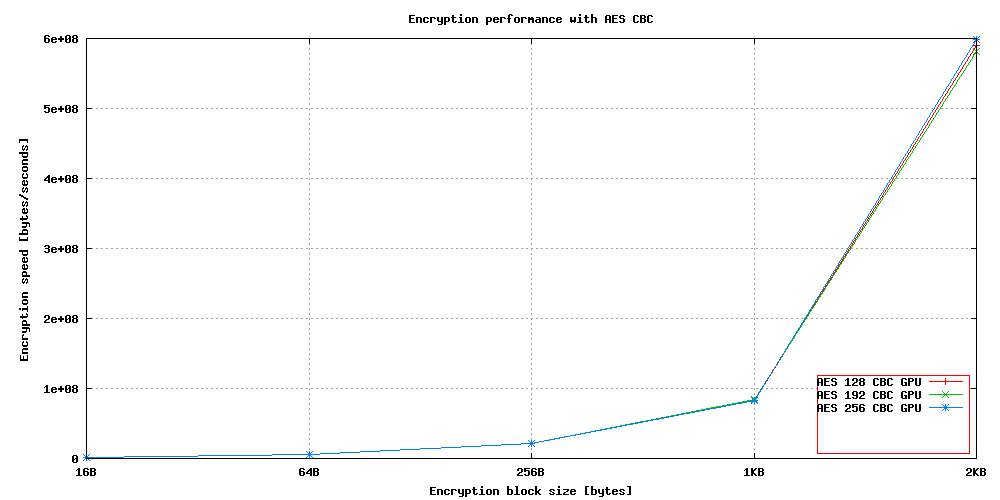
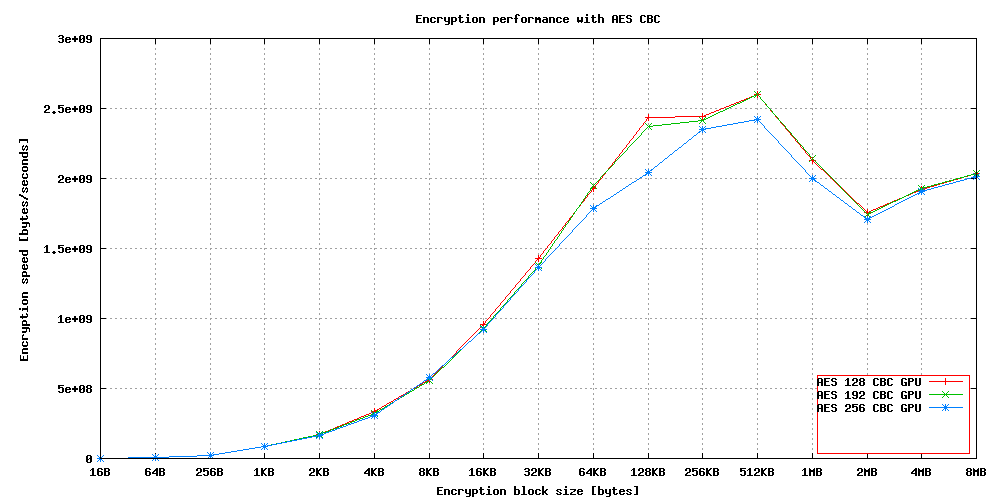
test2

diff --git a/test-speed/table.html b/test-speed/table.html
@@ -2,82 +2,82 @@
 <h1>AES ECB encryption performance</h1>
 <img src="./aes-ecb-encrypt.png" alt="aes-ecb-encrypt"/>
 <table><tr><th>blocksize</th><th>aes-128-ecb-gpu</th><th>aes-128-ecb-cpu</th><th>aes-192-ecb-gpu</th><th>aes-192-ecb-cpu</th><th>aes-256-ecb-gpu</th><th>aes-256-ecb-cpu</th></tr>
-<tr><th>16</th><td>570827.07</td><td>588660.08</td><td>593474.51</td><td></td><td>561222.81</td><td></td></tr>
-<tr><th>64</th><td>2259911.11</td><td>2299122.68</td><td>2353755.64</td><td></td><td>2227658.87</td><td></td></tr>
-<tr><th>256</th><td>8977381.55</td><td>9357187.88</td><td>9256901.15</td><td></td><td>8873768.42</td><td></td></tr>
-<tr><th>1024</th><td>37716669.26</td><td>36596770.26</td><td>36440048.48</td><td></td><td>36524127.63</td><td></td></tr>
-<tr><th>2048</th><td></td><td></td><td></td><td></td><td></td><td></td></tr>
-<tr><th>4096</th><td></td><td></td><td></td><td></td><td></td><td></td></tr>
-<tr><th>8192</th><td>274117158.21</td><td>292256000.00</td><td>289096006.37</td><td></td><td>266356590.26</td><td></td></tr>
-<tr><th>16384</th><td></td><td></td><td></td><td></td><td></td><td></td></tr>
-<tr><th>32768</th><td></td><td></td><td></td><td></td><td></td><td></td></tr>
-<tr><th>65536</th><td></td><td></td><td></td><td></td><td></td><td></td></tr>
-<tr><th>131072</th><td></td><td></td><td></td><td></td><td></td><td></td></tr>
-<tr><th>262144</th><td></td><td></td><td></td><td></td><td></td><td></td></tr>
-<tr><th>524288</th><td></td><td></td><td></td><td></td><td></td><td></td></tr>
-<tr><th>1048576</th><td></td><td></td><td></td><td></td><td></td><td></td></tr>
-<tr><th>2097152</th><td></td><td></td><td></td><td></td><td></td><td></td></tr>
-<tr><th>4194304</th><td></td><td></td><td></td><td></td><td></td><td></td></tr>
-<tr><th>8388608</th><td></td><td></td><td></td><td></td><td></td><td></td></tr>
+<tr><th>16</th><td>591412.73</td><td></td><td>554810.49</td><td></td><td>564468.97</td><td></td></tr>
+<tr><th>64</th><td>2349299.63</td><td></td><td>2215454.68</td><td></td><td>2214424.06</td><td></td></tr>
+<tr><th>256</th><td>9413253.73</td><td></td><td>8899175.94</td><td></td><td>8921018.18</td><td></td></tr>
+<tr><th>1024</th><td>37853222.64</td><td></td><td>35347943.07</td><td></td><td>36514564.98</td><td></td></tr>
+<tr><th>2048</th><td>73638591.04</td><td></td><td>70459733.33</td><td></td><td>71675237.21</td><td></td></tr>
+<tr><th>4096</th><td>144101831.11</td><td></td><td>136672934.83</td><td></td><td>144959235.06</td><td></td></tr>
+<tr><th>8192</th><td>280191130.57</td><td></td><td>261470976.95</td><td></td><td>283113521.95</td><td></td></tr>
+<tr><th>16384</th><td>512825625.10</td><td></td><td>485064950.38</td><td></td><td>499146591.37</td><td></td></tr>
+<tr><th>32768</th><td>825036413.58</td><td></td><td>806214614.13</td><td></td><td>856450662.40</td><td></td></tr>
+<tr><th>65536</th><td>1239524072.73</td><td></td><td>1235553709.92</td><td></td><td>1239265438.76</td><td></td></tr>
+<tr><th>131072</th><td>1615437386.26</td><td></td><td>1624733965.89</td><td></td><td>1729986560.00</td><td></td></tr>
+<tr><th>262144</th><td>1877354338.46</td><td></td><td>1888864821.79</td><td></td><td>1937636845.34</td><td></td></tr>
+<tr><th>524288</th><td>2084767244.09</td><td></td><td>2035135053.70</td><td></td><td>2196208966.81</td><td></td></tr>
+<tr><th>1048576</th><td>1802744123.08</td><td></td><td>1781772603.08</td><td></td><td>1889162851.03</td><td></td></tr>
+<tr><th>2097152</th><td>1562716490.32</td><td></td><td>1573629383.94</td><td></td><td>1569779952.94</td><td></td></tr>
+<tr><th>4194304</th><td>1738060710.18</td><td></td><td>1719073892.96</td><td></td><td>1739580040.29</td><td></td></tr>
+<tr><th>8388608</th><td>1837366388.93</td><td></td><td>1823864596.52</td><td></td><td>1809710187.41</td><td></td></tr>
 </table>
 <p>The "numbers" in the column "blocksize" are in bytes.</p>
 <p>All other "numbers" are in bytes per second processed.</p>
 <h1>AES ECB decryption performance</h1>
 <img src="./aes-ecb-decrypt.png" alt="aes-ecb-decrypt"/>
 <table><tr><th>blocksize</th><th>aes-128-ecb-gpu</th><th>aes-128-ecb-cpu</th><th>aes-192-ecb-gpu</th><th>aes-192-ecb-cpu</th><th>aes-256-ecb-gpu</th><th>aes-256-ecb-cpu</th></tr>
-<tr><th>16</th><td>608606.90</td><td></td><td>566947.21</td><td></td><td>539387.17</td><td></td></tr>
-<tr><th>64</th><td>2390303.76</td><td></td><td>2289972.93</td><td></td><td>2156220.38</td><td></td></tr>
-<tr><th>256</th><td>9516584.27</td><td></td><td>9039464.68</td><td></td><td>8642812.12</td><td></td></tr>
-<tr><th>1024</th><td>37330109.63</td><td></td><td>37877600.00</td><td></td><td>35006962.16</td><td></td></tr>
-<tr><th>2048</th><td></td><td></td><td></td><td></td><td></td><td></td></tr>
-<tr><th>4096</th><td></td><td></td><td></td><td></td><td></td><td></td></tr>
-<tr><th>8192</th><td>286874566.04</td><td></td><td>275119268.91</td><td></td><td>257250197.01</td><td></td></tr>
-<tr><th>16384</th><td></td><td></td><td></td><td></td><td></td><td></td></tr>
-<tr><th>32768</th><td></td><td></td><td></td><td></td><td></td><td></td></tr>
-<tr><th>65536</th><td></td><td></td><td></td><td></td><td></td><td></td></tr>
-<tr><th>131072</th><td></td><td></td><td></td><td></td><td></td><td></td></tr>
-<tr><th>262144</th><td></td><td></td><td></td><td></td><td></td><td></td></tr>
-<tr><th>524288</th><td></td><td></td><td></td><td></td><td></td><td></td></tr>
-<tr><th>1048576</th><td></td><td></td><td></td><td></td><td></td><td></td></tr>
-<tr><th>2097152</th><td></td><td></td><td></td><td></td><td></td><td></td></tr>
-<tr><th>4194304</th><td></td><td></td><td></td><td></td><td></td><td></td></tr>
-<tr><th>8388608</th><td></td><td></td><td></td><td></td><td></td><td></td></tr>
+<tr><th>16</th><td>584865.19</td><td></td><td>586409.13</td><td></td><td></td><td></td></tr>
+<tr><th>64</th><td>2318070.59</td><td></td><td>2331903.03</td><td></td><td></td><td></td></tr>
+<tr><th>256</th><td>9391283.58</td><td></td><td>9163940.30</td><td></td><td></td><td></td></tr>
+<tr><th>1024</th><td>39141600.00</td><td></td><td>36445611.94</td><td></td><td></td><td></td></tr>
+<tr><th>2048</th><td>74112287.64</td><td></td><td>74533021.54</td><td></td><td></td><td></td></tr>
+<tr><th>4096</th><td>144053285.93</td><td></td><td>141752167.16</td><td></td><td></td><td></td></tr>
+<tr><th>8192</th><td>280438436.23</td><td></td><td>270960297.40</td><td></td><td></td><td></td></tr>
+<tr><th>16384</th><td>501753886.57</td><td></td><td>491281576.12</td><td></td><td></td><td></td></tr>
+<tr><th>32768</th><td>847281557.74</td><td></td><td>885775627.31</td><td></td><td></td><td></td></tr>
+<tr><th>65536</th><td>1260982412.17</td><td></td><td>1248322697.32</td><td></td><td></td><td></td></tr>
+<tr><th>131072</th><td>1661464607.75</td><td></td><td>1617630129.23</td><td></td><td></td><td></td></tr>
+<tr><th>262144</th><td>1915283224.90</td><td></td><td>1874532812.40</td><td></td><td></td><td></td></tr>
+<tr><th>524288</th><td>2080358400.00</td><td></td><td>2062681096.06</td><td></td><td></td><td></td></tr>
+<tr><th>1048576</th><td>1925527928.16</td><td></td><td>1757556363.64</td><td></td><td></td><td></td></tr>
+<tr><th>2097152</th><td>1568729829.39</td><td></td><td>1542155702.86</td><td></td><td></td><td></td></tr>
+<tr><th>4194304</th><td>1743947452.63</td><td></td><td>1720550760.56</td><td></td><td></td><td></td></tr>
+<tr><th>8388608</th><td>1858938915.68</td><td></td><td>1823864596.52</td><td></td><td></td><td></td></tr>
 </table>
 <p>The "numbers" in the column "blocksize" are in bytes.</p>
 <p>All other "numbers" are in bytes per second processed.</p>
 <h1>AES CBC encryption performance</h1>
 <img src="./aes-cbc-encrypt.png" alt="aes-cbc-encrypt"/>
 <table><tr><th>blocksize</th><th>aes-128-cbc-gpu</th><th>aes-128-cbc-cpu</th><th>aes-192-cbc-gpu</th><th>aes-192-cbc-cpu</th><th>aes-256-cbc-gpu</th><th>aes-256-cbc-cpu</th></tr>
-<tr><th>16</th><td>1386514.29</td><td></td><td>1327657.54</td><td></td><td>1356341.22</td><td></td></tr>
-<tr><th>64</th><td>5443936.69</td><td></td><td>5340436.88</td><td></td><td>5342462.19</td><td></td></tr>
-<tr><th>256</th><td>21128653.52</td><td></td><td>21219748.57</td><td></td><td>21648942.55</td><td></td></tr>
-<tr><th>1024</th><td>82294264.79</td><td></td><td>83622765.71</td><td></td><td>83231157.30</td><td></td></tr>
-<tr><th>2048</th><td></td><td></td><td></td><td></td><td></td><td></td></tr>
-<tr><th>4096</th><td></td><td></td><td></td><td></td><td></td><td></td></tr>
-<tr><th>8192</th><td>589509870.68</td><td></td><td>581713920.00</td><td></td><td>598087641.06</td><td></td></tr>
-<tr><th>16384</th><td></td><td></td><td></td><td></td><td></td><td></td></tr>
-<tr><th>32768</th><td></td><td></td><td></td><td></td><td></td><td></td></tr>
-<tr><th>65536</th><td></td><td></td><td></td><td></td><td></td><td></td></tr>
-<tr><th>131072</th><td></td><td></td><td></td><td></td><td></td><td></td></tr>
-<tr><th>262144</th><td></td><td></td><td></td><td></td><td></td><td></td></tr>
-<tr><th>524288</th><td></td><td></td><td></td><td></td><td></td><td></td></tr>
-<tr><th>1048576</th><td></td><td></td><td></td><td></td><td></td><td></td></tr>
-<tr><th>2097152</th><td></td><td></td><td></td><td></td><td></td><td></td></tr>
-<tr><th>4194304</th><td></td><td></td><td></td><td></td><td></td><td></td></tr>
-<tr><th>8388608</th><td></td><td></td><td></td><td></td><td></td><td></td></tr>
+<tr><th>16</th><td>1373400.72</td><td></td><td>1338722.30</td><td></td><td>1371865.23</td><td></td></tr>
+<tr><th>64</th><td>5623958.36</td><td></td><td>5344460.43</td><td></td><td>5547501.45</td><td></td></tr>
+<tr><th>256</th><td>22809600.00</td><td></td><td>20830557.75</td><td></td><td>21532766.08</td><td></td></tr>
+<tr><th>1024</th><td>86233553.11</td><td></td><td>84985552.59</td><td></td><td>85246715.41</td><td></td></tr>
+<tr><th>2048</th><td>168117198.51</td><td></td><td>168717331.32</td><td></td><td>163524811.35</td><td></td></tr>
+<tr><th>4096</th><td>335280709.73</td><td></td><td>321662150.57</td><td></td><td>307901130.25</td><td></td></tr>
+<tr><th>8192</th><td>565347388.24</td><td></td><td>556861819.26</td><td></td><td>580772763.91</td><td></td></tr>
+<tr><th>16384</th><td>957489816.22</td><td></td><td>927507513.96</td><td></td><td>920359152.94</td><td></td></tr>
+<tr><th>32768</th><td>1429252434.65</td><td></td><td>1378020430.77</td><td></td><td>1365538646.62</td><td></td></tr>
+<tr><th>65536</th><td>1925159960.98</td><td></td><td>1953107647.74</td><td></td><td>1787120083.90</td><td></td></tr>
+<tr><th>131072</th><td>2434186037.00</td><td></td><td>2369408882.76</td><td></td><td>2043127120.30</td><td></td></tr>
+<tr><th>262144</th><td>2440767309.54</td><td></td><td>2417765978.60</td><td></td><td>2348747576.10</td><td></td></tr>
+<tr><th>524288</th><td>2599851670.59</td><td></td><td>2598970514.29</td><td></td><td>2424832000.00</td><td></td></tr>
+<tr><th>1048576</th><td>2125903277.42</td><td></td><td>2142760793.50</td><td></td><td>1999840969.70</td><td></td></tr>
+<tr><th>2097152</th><td>1754744273.45</td><td></td><td>1740560450.54</td><td></td><td>1705881238.16</td><td></td></tr>
+<tr><th>4194304</th><td>1923241834.15</td><td></td><td>1928499916.08</td><td></td><td>1907029569.55</td><td></td></tr>
+<tr><th>8388608</th><td>2032734361.77</td><td></td><td>2033950158.90</td><td></td><td>2016109515.93</td><td></td></tr>
 </table>
 <p>The "numbers" in the column "blocksize" are in bytes.</p>
 <p>All other "numbers" are in bytes per second processed.</p>
 <h1>AES CBC decryption performance</h1>
 <img src="./aes-cbc-decrypt.png" alt="aes-cbc-decrypt"/>
 <table><tr><th>blocksize</th><th>aes-128-cbc-gpu</th><th>aes-128-cbc-cpu</th><th>aes-192-cbc-gpu</th><th>aes-192-cbc-cpu</th><th>aes-256-cbc-gpu</th><th>aes-256-cbc-cpu</th></tr>
-<tr><th>16</th><td>564115.99</td><td></td><td>552686.57</td><td></td><td>531127.27</td><td></td></tr>
-<tr><th>64</th><td>2258914.50</td><td></td><td>2216677.15</td><td></td><td>2096874.91</td><td></td></tr>
-<tr><th>256</th><td>8904436.36</td><td></td><td>8600533.33</td><td></td><td>8157834.22</td><td></td></tr>
-<tr><th>1024</th><td>34349638.95</td><td></td><td>33643266.92</td><td></td><td>31901719.54</td><td></td></tr>
+<tr><th>16</th><td></td><td></td><td></td><td></td><td></td><td></td></tr>
+<tr><th>64</th><td></td><td></td><td></td><td></td><td></td><td></td></tr>
+<tr><th>256</th><td></td><td></td><td></td><td></td><td></td><td></td></tr>
+<tr><th>1024</th><td></td><td></td><td></td><td></td><td></td><td></td></tr>
 <tr><th>2048</th><td></td><td></td><td></td><td></td><td></td><td></td></tr>
 <tr><th>4096</th><td></td><td></td><td></td><td></td><td></td><td></td></tr>
-<tr><th>8192</th><td>252151628.90</td><td></td><td>245564652.31</td><td></td><td>228781923.66</td><td></td></tr>
+<tr><th>8192</th><td></td><td></td><td></td><td></td><td></td><td></td></tr>
 <tr><th>16384</th><td></td><td></td><td></td><td></td><td></td><td></td></tr>
 <tr><th>32768</th><td></td><td></td><td></td><td></td><td></td><td></td></tr>
 <tr><th>65536</th><td></td><td></td><td></td><td></td><td></td><td></td></tr>
@@ -95,36 +95,36 @@
 <h1>AES CTR encryption performance</h1>
 <img src="./aes-ctr-encrypt.png" alt="aes-ctr-encrypt"/>
 <table><tr><th>blocksize</th><th>aes-128-ctr-gpu</th><th>aes-128-ctr-cpu</th><th>aes-192-ctr-gpu</th><th>aes-192-ctr-cpu</th><th>aes-256-ctr-gpu</th><th>aes-256-ctr-cpu</th></tr>
-<tr><th>16</th><td>435649360.54</td><td></td><td>380883210.67</td><td></td><td>339673696.00</td><td></td></tr>
-<tr><th>64</th><td>1360579776.00</td><td></td><td>1209927701.33</td><td></td><td>1119663133.11</td><td></td></tr>
-<tr><th>256</th><td>2889235712.00</td><td></td><td>2577656808.03</td><td></td><td>2270227029.33</td><td></td></tr>
-<tr><th>1024</th><td>3792032426.67</td><td></td><td>3152336213.33</td><td></td><td>2737451349.33</td><td></td></tr>
-<tr><th>2048</th><td></td><td></td><td></td><td></td><td></td><td></td></tr>
-<tr><th>4096</th><td></td><td></td><td></td><td></td><td></td><td></td></tr>
-<tr><th>8192</th><td>4167122450.84</td><td></td><td>3379317811.37</td><td></td><td>2913080679.60</td><td></td></tr>
-<tr><th>16384</th><td></td><td></td><td></td><td></td><td></td><td></td></tr>
-<tr><th>32768</th><td></td><td></td><td></td><td></td><td></td><td></td></tr>
-<tr><th>65536</th><td></td><td></td><td></td><td></td><td></td><td></td></tr>
-<tr><th>131072</th><td></td><td></td><td></td><td></td><td></td><td></td></tr>
-<tr><th>262144</th><td></td><td></td><td></td><td></td><td></td><td></td></tr>
-<tr><th>524288</th><td></td><td></td><td></td><td></td><td></td><td></td></tr>
-<tr><th>1048576</th><td></td><td></td><td></td><td></td><td></td><td></td></tr>
-<tr><th>2097152</th><td></td><td></td><td></td><td></td><td></td><td></td></tr>
-<tr><th>4194304</th><td></td><td></td><td></td><td></td><td></td><td></td></tr>
-<tr><th>8388608</th><td></td><td></td><td></td><td></td><td></td><td></td></tr>
+<tr><th>16</th><td>388004655.52</td><td></td><td>382036569.90</td><td></td><td>334774886.96</td><td></td></tr>
+<tr><th>64</th><td>1325654442.67</td><td></td><td>1226566400.00</td><td></td><td>1106443584.00</td><td></td></tr>
+<tr><th>256</th><td>2913429418.67</td><td></td><td>2517380778.67</td><td></td><td>2241853952.00</td><td></td></tr>
+<tr><th>1024</th><td>3786352674.25</td><td></td><td>3163156890.97</td><td></td><td>2740312701.00</td><td></td></tr>
+<tr><th>2048</th><td>3973297493.33</td><td></td><td>3266278058.67</td><td></td><td>2837485568.00</td><td></td></tr>
+<tr><th>4096</th><td>4098080768.00</td><td></td><td>3337643349.33</td><td></td><td>2897802188.63</td><td></td></tr>
+<tr><th>8192</th><td>4134521514.67</td><td></td><td>3364795733.33</td><td></td><td>2912492413.42</td><td></td></tr>
+<tr><th>16384</th><td>4183942078.93</td><td></td><td>3398512845.48</td><td></td><td>2922408618.67</td><td></td></tr>
+<tr><th>32768</th><td>4184331605.33</td><td></td><td>3394207744.00</td><td></td><td>2939662212.71</td><td></td></tr>
+<tr><th>65536</th><td>4200158549.33</td><td></td><td>3401930069.33</td><td></td><td>2935248213.33</td><td></td></tr>
+<tr><th>131072</th><td>4223104770.57</td><td></td><td>3417603767.22</td><td></td><td>2946971997.32</td><td></td></tr>
+<tr><th>262144</th><td>4210906453.33</td><td></td><td>3407435093.33</td><td></td><td>2939595434.67</td><td></td></tr>
+<tr><th>524288</th><td>4205314048.00</td><td></td><td>3406648661.33</td><td></td><td>2938983765.33</td><td></td></tr>
+<tr><th>1048576</th><td>4206886912.00</td><td></td><td>3407172949.33</td><td></td><td>2948637795.32</td><td></td></tr>
+<tr><th>2097152</th><td>4218151213.38</td><td></td><td>3417165399.33</td><td></td><td>2938809002.67</td><td></td></tr>
+<tr><th>4194304</th><td>4195702101.33</td><td></td><td>3402978645.33</td><td></td><td>2936012800.00</td><td></td></tr>
+<tr><th>8388608</th><td>4197100202.67</td><td></td><td>3402978645.33</td><td></td><td>2945832240.80</td><td></td></tr>
 </table>
 <p>The "numbers" in the column "blocksize" are in bytes.</p>
 <p>All other "numbers" are in bytes per second processed.</p>
 <h1>AES CTR decryption performance</h1>
 <img src="./aes-ctr-decrypt.png" alt="aes-ctr-decrypt"/>
 <table><tr><th>blocksize</th><th>aes-128-ctr-gpu</th><th>aes-128-ctr-cpu</th><th>aes-192-ctr-gpu</th><th>aes-192-ctr-cpu</th><th>aes-256-ctr-gpu</th><th>aes-256-ctr-cpu</th></tr>
-<tr><th>16</th><td>383814640.00</td><td></td><td>342590057.53</td><td></td><td>290414257.53</td><td></td></tr>
-<tr><th>64</th><td>1248888832.00</td><td></td><td>1129473130.67</td><td></td><td>1013199368.56</td><td></td></tr>
-<tr><th>256</th><td>2881365361.87</td><td></td><td>2526549276.25</td><td></td><td>2158022121.74</td><td></td></tr>
-<tr><th>1024</th><td>3779213653.33</td><td></td><td>3141356885.33</td><td></td><td>2697979904.00</td><td></td></tr>
+<tr><th>16</th><td></td><td></td><td></td><td></td><td></td><td></td></tr>
+<tr><th>64</th><td></td><td></td><td></td><td></td><td></td><td></td></tr>
+<tr><th>256</th><td></td><td></td><td></td><td></td><td></td><td></td></tr>
+<tr><th>1024</th><td></td><td></td><td></td><td></td><td></td><td></td></tr>
 <tr><th>2048</th><td></td><td></td><td></td><td></td><td></td><td></td></tr>
 <tr><th>4096</th><td></td><td></td><td></td><td></td><td></td><td></td></tr>
-<tr><th>8192</th><td>4144634177.93</td><td></td><td>3371460066.89</td><td></td><td>2905244853.51</td><td></td></tr>
+<tr><th>8192</th><td></td><td></td><td></td><td></td><td></td><td></td></tr>
 <tr><th>16384</th><td></td><td></td><td></td><td></td><td></td><td></td></tr>
 <tr><th>32768</th><td></td><td></td><td></td><td></td><td></td><td></td></tr>
 <tr><th>65536</th><td></td><td></td><td></td><td></td><td></td><td></td></tr>
